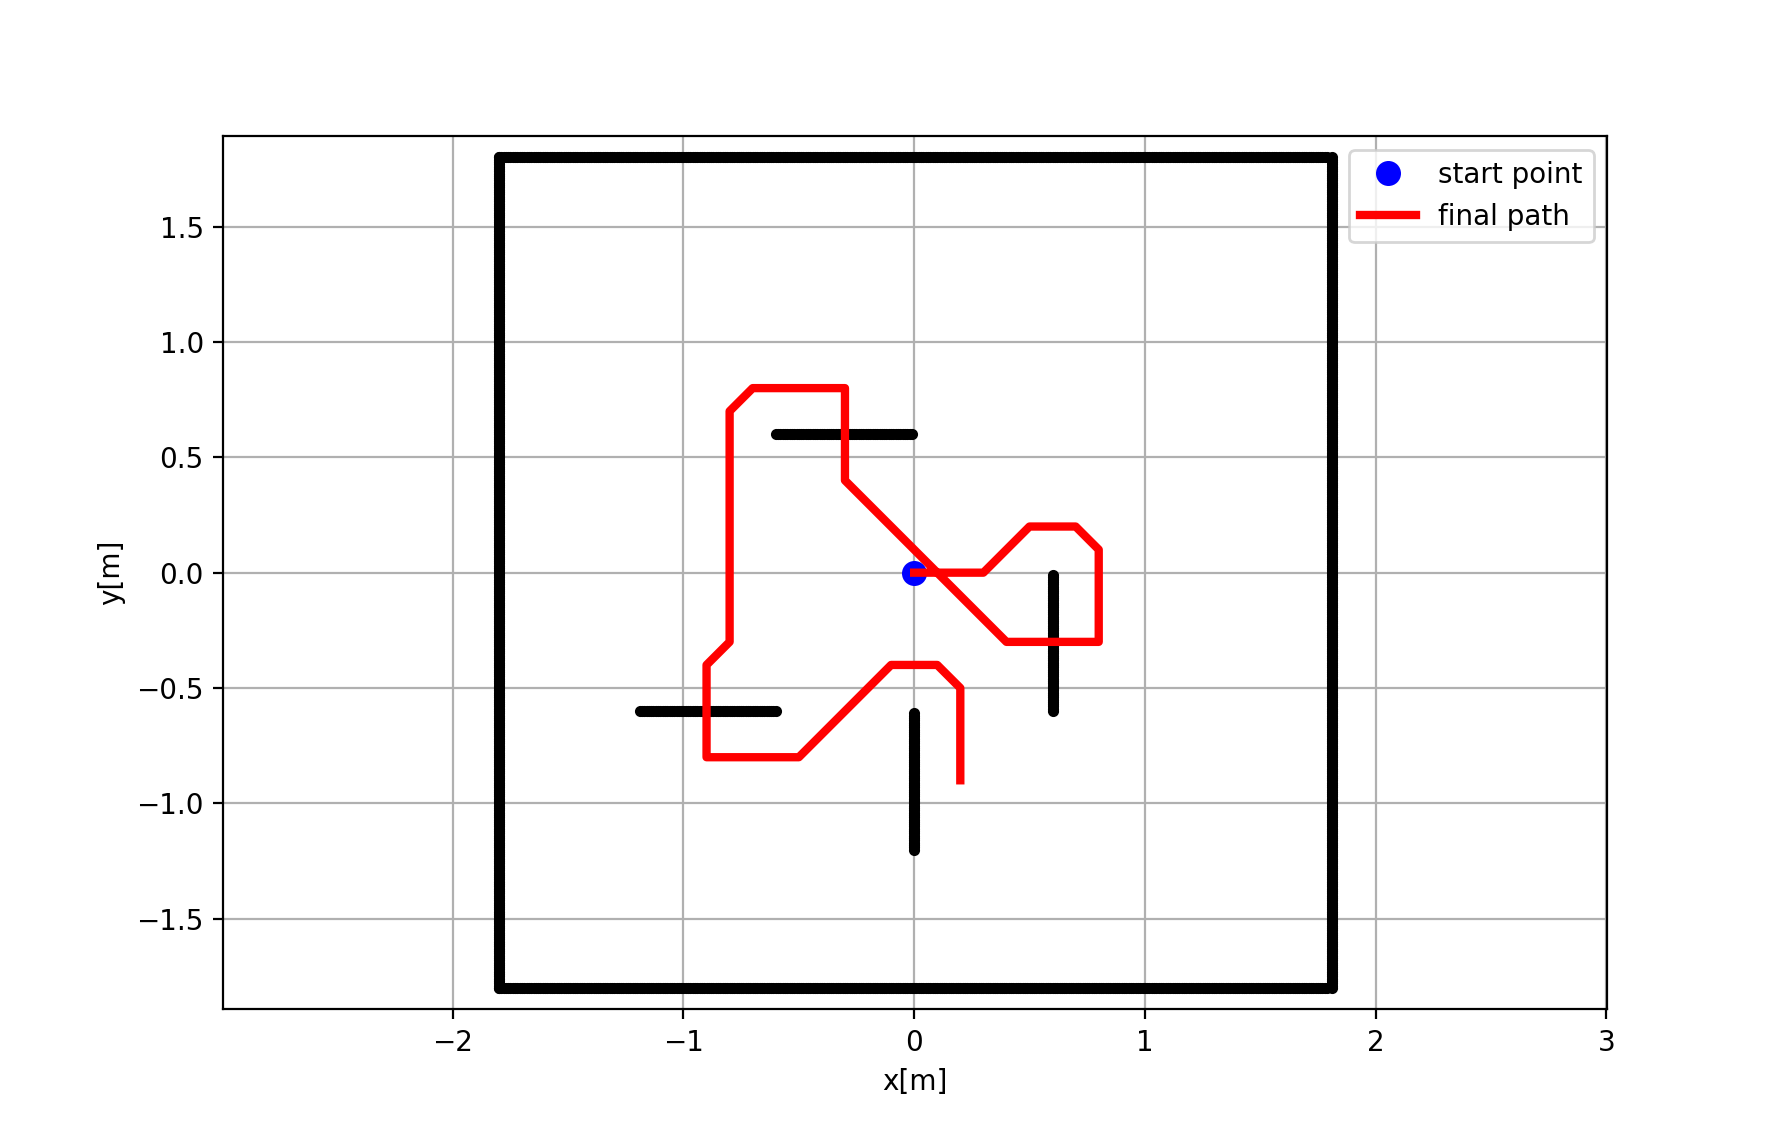
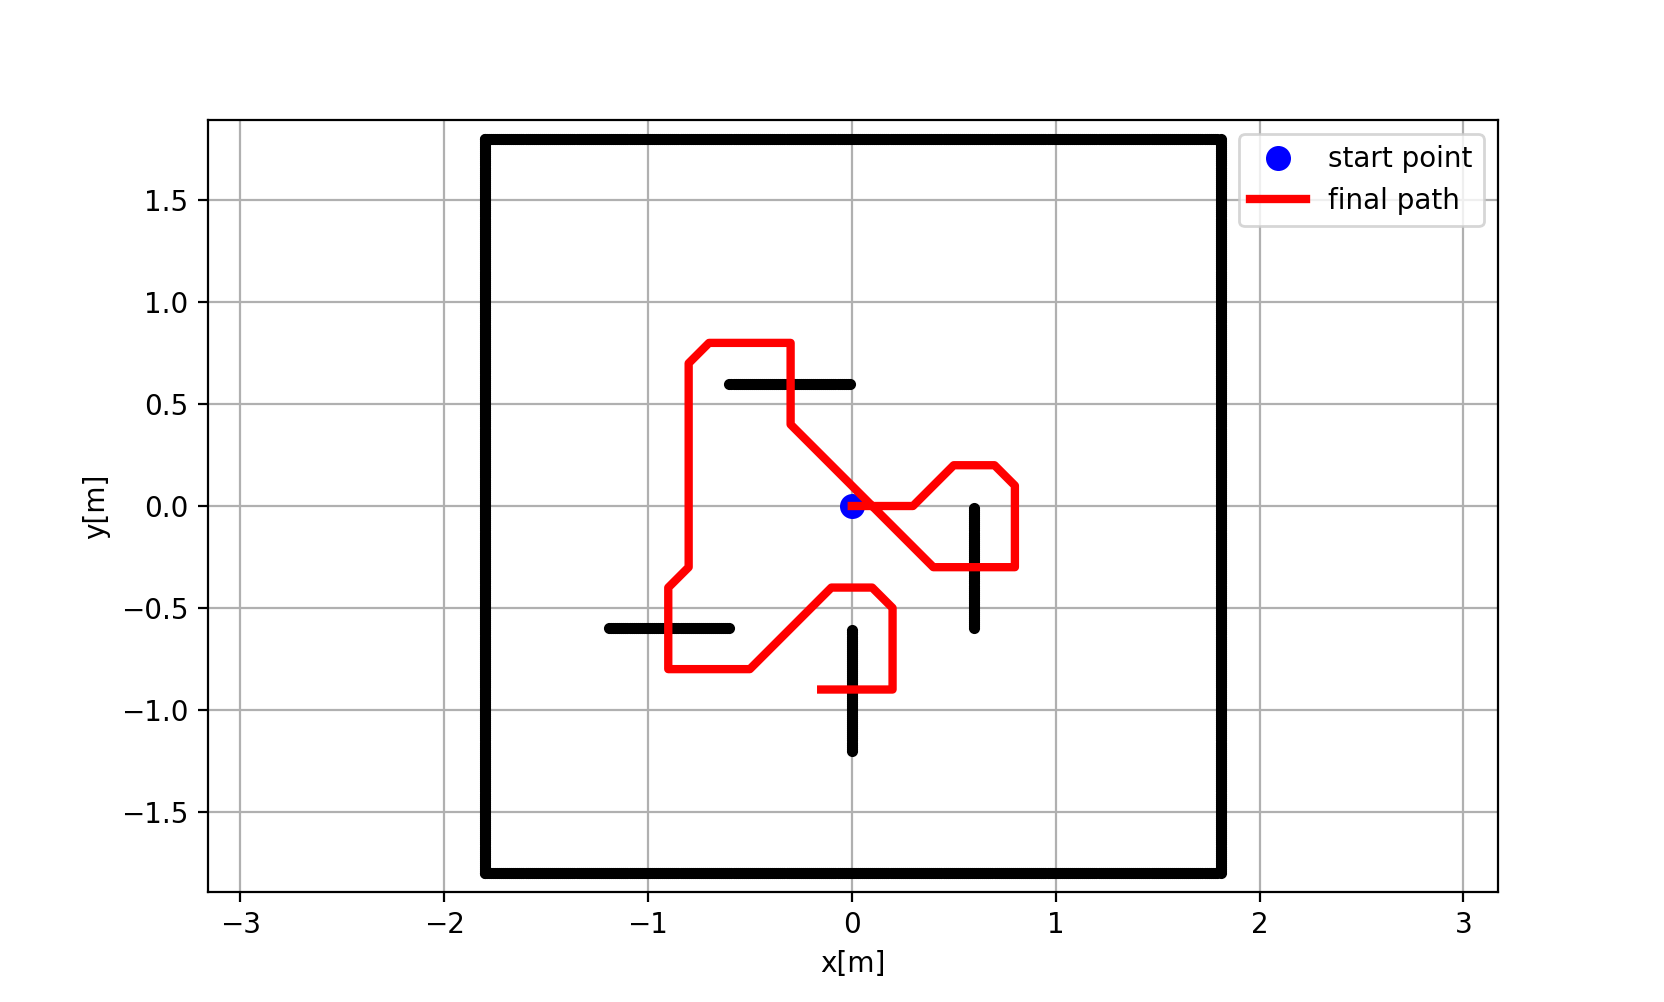
report

diff --git a/P2/path_planning/AStar/a_star.py b/P2/path_planning/AStar/a_star.py
@@ -391,6 +391,8 @@ def main():
     plt.close()
 
     # for report
+    rx_all = rx_all + [way_x[-1]]
+    ry_all = ry_all + [way_y[-1]]
     newsx = (np.asarray(sx) - 180)/100
     newsy = (np.asarray(sy) - 180)/100
     ox = (np.asarray(ox) - 180)/100
@@ -406,6 +408,98 @@ def main():
     plt.ylabel('y[m]')
     plt.legend()
     plt.show()
+
+
+    print('rx_all:', rx_all)
+    print('ry_all:', ry_all)
+
+    plt.plot(ox, oy, ".k")
+    plt.plot(rx_all[:13], ry_all[:13], "-r",linewidth=3.0)
+    plt.grid(True)
+    plt.axis("equal")
+    plt.xlabel('x[m]')
+    plt.ylabel('y[m]')
+    # plt.legend()
+    # plt.show()
+    plt.savefig('path1')
+    plt.close()
+
+    plt.plot(ox, oy, ".k")
+    plt.plot(rx_all[12:14], ry_all[12:14], "-r",linewidth=3.0)
+    plt.grid(True)
+    plt.axis("equal")
+    plt.xlabel('x[m]')
+    plt.ylabel('y[m]')
+    # plt.legend()
+    # plt.show()
+    plt.savefig('path2')
+    plt.close()
+
+    plt.plot(ox, oy, ".k")
+    plt.plot(rx_all[13:21], ry_all[13:21], "-r",linewidth=3.0)
+    plt.grid(True)
+    plt.axis("equal")
+    plt.xlabel('x[m]')
+    plt.ylabel('y[m]')
+    # plt.legend()
+    # plt.show()
+    plt.savefig('path3')
+    plt.close()
+
+    plt.plot(ox, oy, ".k")
+    plt.plot(rx_all[20:22], ry_all[20:22], "-r",linewidth=3.0)
+    plt.grid(True)
+    plt.axis("equal")
+    plt.xlabel('x[m]')
+    plt.ylabel('y[m]')
+    # plt.legend()
+    # plt.show()
+    plt.savefig('path4')
+    plt.close()
+
+    plt.plot(ox, oy, ".k")
+    plt.plot(rx_all[21:38], ry_all[21:38], "-r",linewidth=3.0)
+    plt.grid(True)
+    plt.axis("equal")
+    plt.xlabel('x[m]')
+    plt.ylabel('y[m]')
+    # plt.legend()
+    # plt.show()
+    plt.savefig('path5')
+    plt.close()
+
+    plt.plot(ox, oy, ".k")
+    plt.plot(rx_all[37:39], ry_all[37:39], "-r",linewidth=3.0)
+    plt.grid(True)
+    plt.axis("equal")
+    plt.xlabel('x[m]')
+    plt.ylabel('y[m]')
+    # plt.legend()
+    # plt.show()
+    plt.savefig('path6')
+    plt.close()
+
+    plt.plot(ox, oy, ".k")
+    plt.plot(rx_all[38:54], ry_all[38:54], "-r",linewidth=3.0)
+    plt.grid(True)
+    plt.axis("equal")
+    plt.xlabel('x[m]')
+    plt.ylabel('y[m]')
+    # plt.legend()
+    # plt.show()
+    plt.savefig('path7')
+    plt.close()
+
+    plt.plot(ox, oy, ".k")
+    plt.plot(rx_all[53:55], ry_all[53:55], "-r",linewidth=3.0)
+    plt.grid(True)
+    plt.axis("equal")
+    plt.xlabel('x[m]')
+    plt.ylabel('y[m]')
+    # plt.legend()
+    # plt.show()
+    plt.savefig('path8')
+    plt.close()
 
 
 if __name__ == '__main__':
